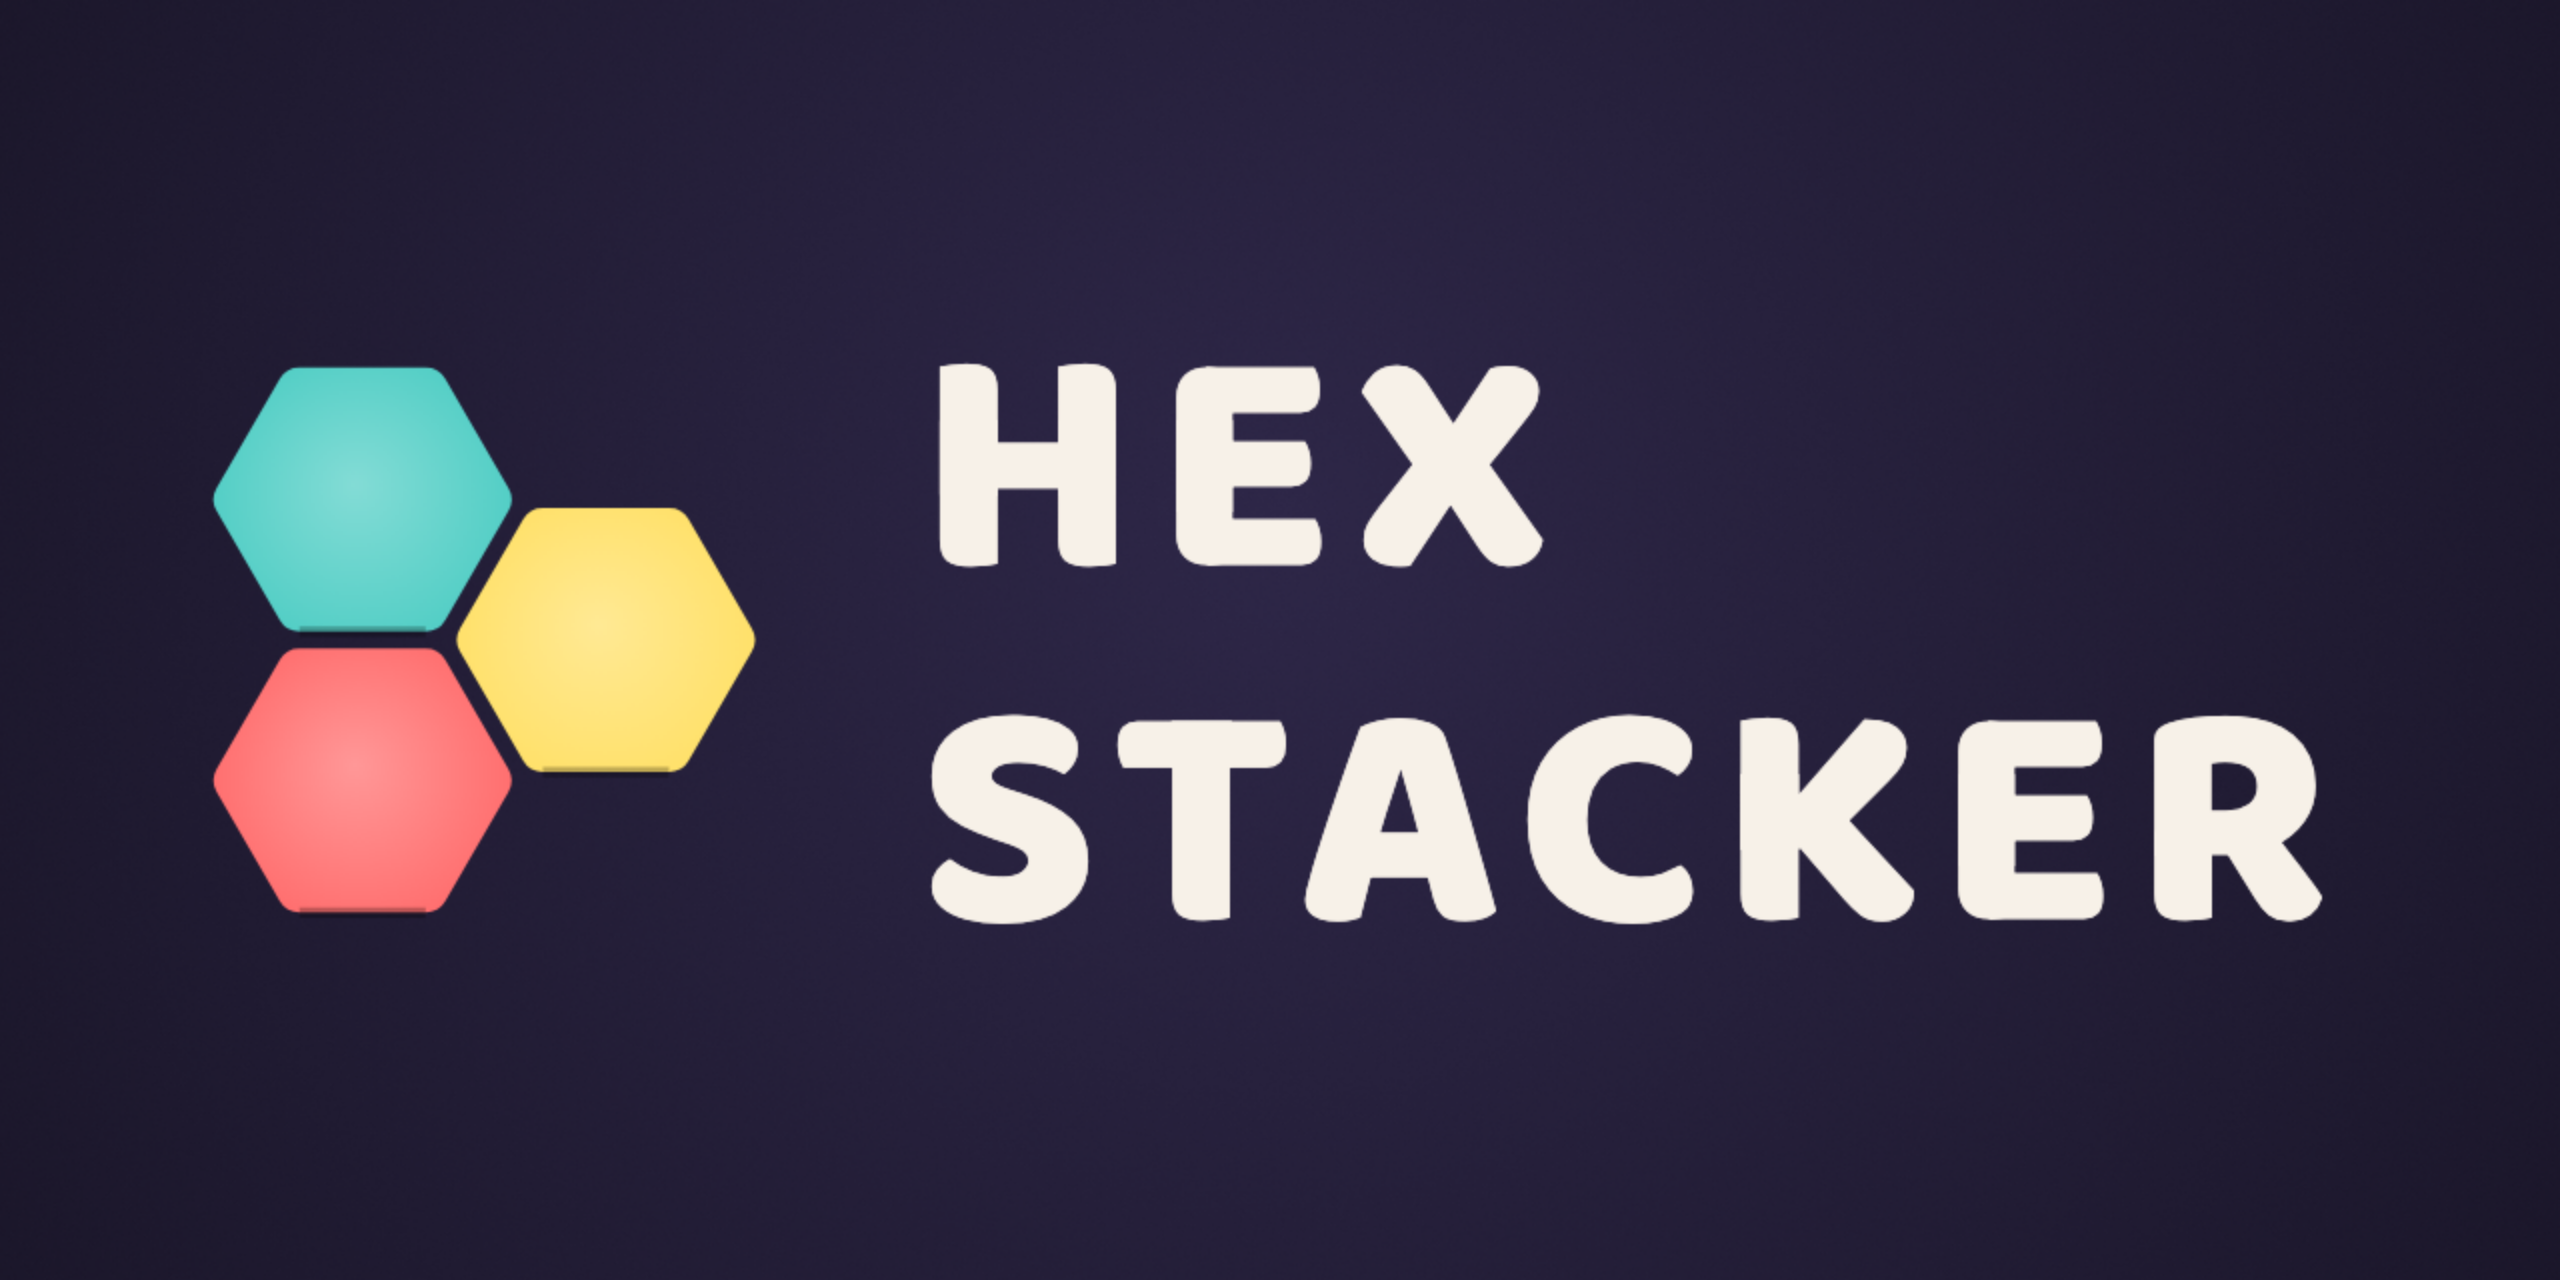
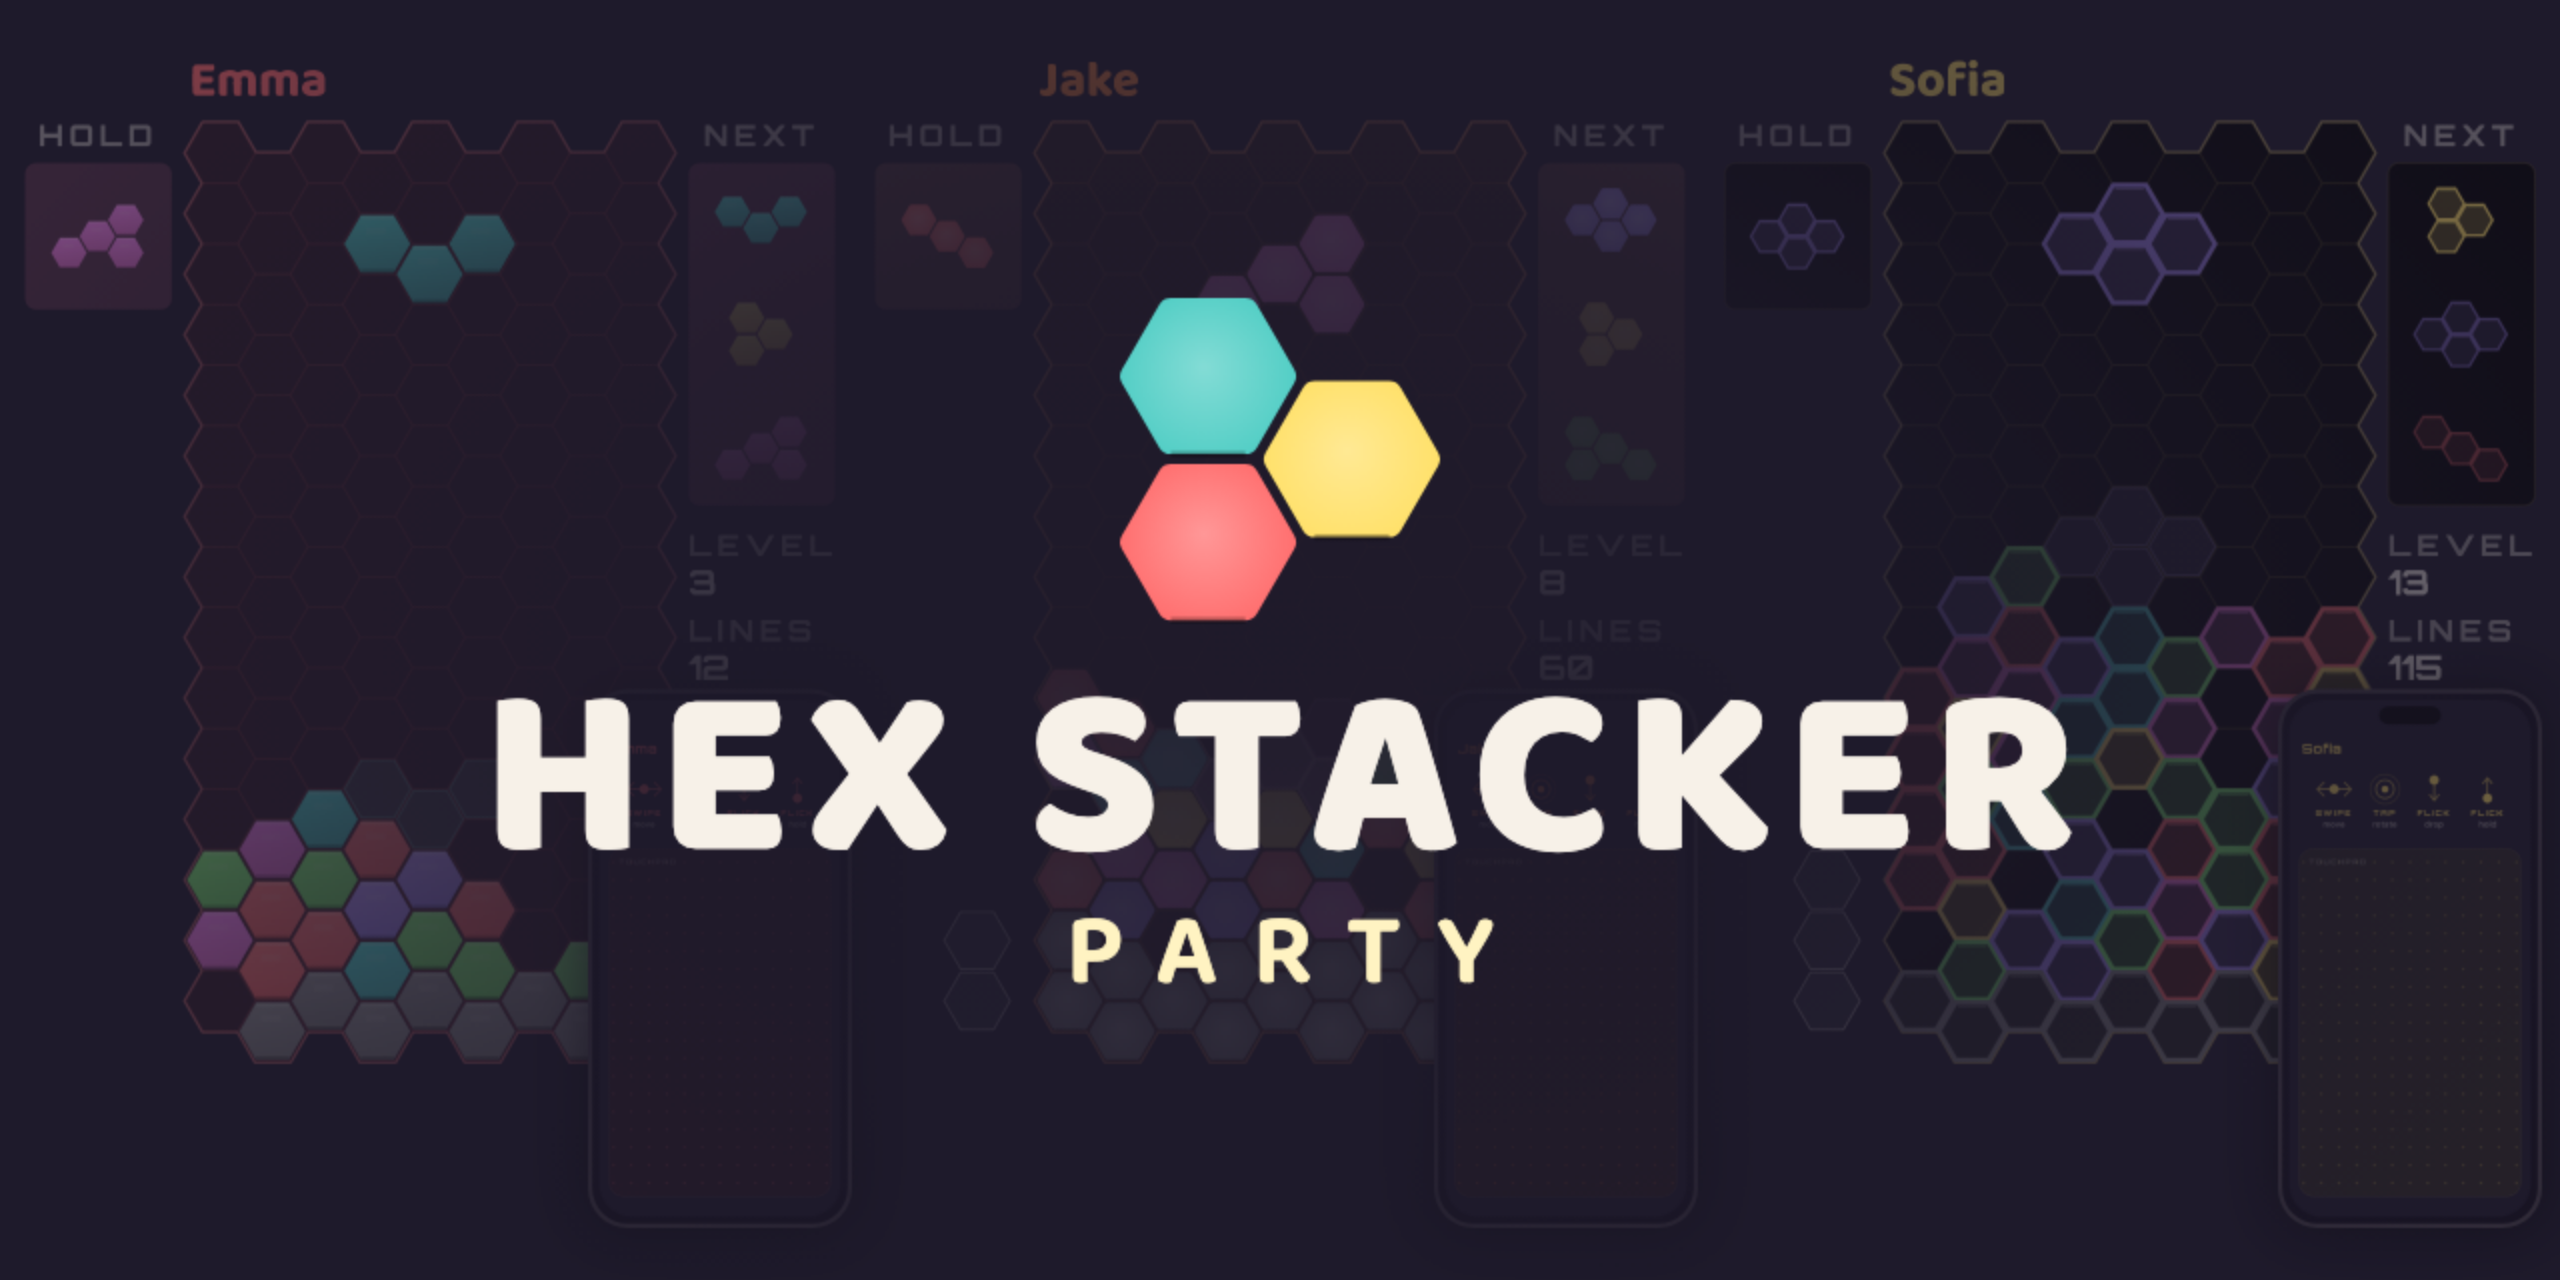
feat(artwork): show gameplay in the link preview (#228)
The link preview was the bare logo and said nothing about the game. It now shares the Play feature graphic's look (gameplay boards behind the stacked lockup with PARTY), rendered from one builder stage so the two can't drift.

diff --git a/artwork/builder.html b/artwork/builder.html
@@ -304,6 +304,7 @@
             <option value="brightTeal">Bright teal</option>
             <option value="brightMagenta">Bright magenta</option>
             <option value="arcadeGrid">Arcade grid (neon)</option>
+            <option value="gameplay">Gameplay backdrop</option>
           </select>
         </div>
       </section>
@@ -762,11 +763,40 @@
     ctx.putImageData(img, x, y);
   }
 
+  // The gameplay banner as a dimmed backdrop. Under file:// the drawn image
+  // taints the canvas, so this style skips the dither (it reads pixels back,
+  // and the photo hides banding anyway) and Export PNG can't save it: render
+  // it with generate-social.js, which screenshots the page instead.
+  const GAMEPLAY_IMG = new Image();
+  GAMEPLAY_IMG.src = 'gameplay-2x1.png';
+
   function paintBackground(ctx, W, H, style) {
     paintBackgroundBase(ctx, W, H, style);
-    if (style !== 'solid') ditherRect(ctx, 0, 0, W, H);
+    if (style !== 'solid' && style !== 'gameplay') ditherRect(ctx, 0, 0, W, H);
   }
   function paintBackgroundBase(ctx, W, H, style) {
+    if (style === 'gameplay') {
+      ctx.fillStyle = '#1E1A2B';
+      ctx.fillRect(0, 0, W, H);
+      const s = Math.max(W / GAMEPLAY_IMG.naturalWidth, H / GAMEPLAY_IMG.naturalHeight);
+      const iw = GAMEPLAY_IMG.naturalWidth * s, ih = GAMEPLAY_IMG.naturalHeight * s;
+      ctx.globalAlpha = 0.55;
+      ctx.drawImage(GAMEPLAY_IMG, (W - iw) / 2, (H - ih) / 2, iw, ih);
+      ctx.globalAlpha = 1;
+      // Elliptical plum veil so the lockup reads over the boards: a unit
+      // radial gradient scaled to 60% × 75% of the canvas.
+      ctx.save();
+      ctx.translate(W / 2, H / 2);
+      ctx.scale(0.6 * W, 0.75 * H);
+      const v = ctx.createRadialGradient(0, 0, 0, 0, 0, 1);
+      v.addColorStop(0, 'rgba(30, 26, 43, 0.92)');
+      v.addColorStop(0.45, 'rgba(30, 26, 43, 0.75)');
+      v.addColorStop(1, 'rgba(30, 26, 43, 0.15)');
+      ctx.fillStyle = v;
+      ctx.fillRect(-1, -1, 2, 2);
+      ctx.restore();
+      return;
+    }
     if (style === 'solid') {
       ctx.fillStyle = '#1E1A2B';
       ctx.fillRect(0, 0, W, H);
@@ -913,8 +943,8 @@
     return ctx.measureText('HEXSTACKER').actualBoundingBoxAscent;
   }
 
-  // Draw one Baloo 2 line. Letter-spacing is applied via ctx.letterSpacing;
-  // for centered lines we subtract half the trailing space so the glyphs are
+  // Draw one Baloo 2 line centered on x. Letter-spacing is applied via
+  // ctx.letterSpacing; we subtract half the trailing space so the glyphs are
   // optically centered (the web uses a matching text-indent). Returns the
   // line's visual (ink) width.
   function drawBalooLine(ctx, text, x, y, size, opts) {
@@ -928,57 +958,21 @@
     const s = lsEm * size;
     ctx.letterSpacing = s + 'px';
     const w = ctx.measureText(text).width;
-    const drawX = opts.align === 'left' ? x : x - (w - s) / 2;
-    ctx.fillText(text, drawX, y);
+    ctx.fillText(text, x - (w - s) / 2, y);
     ctx.restore();
     return w - s;
   }
 
-  // Render the brand lockup. Two arrangements:
-  //   • 'stacked' (cover): triad above HEX STACKER above the PARTY subtitle,
-  //     centered on the canvas.
-  //   • 'row' (social): triad left, a two-line HEX / STACKER cream block right.
-  // params.titleY is the vertical center of the whole lockup block; the
-  // wordmark auto-shrinks so it never bleeds off-canvas.
+  // Render the brand lockup: triad above HEX STACKER above the PARTY
+  // subtitle, centered on the canvas. params.titleY is the vertical center of
+  // the whole lockup block; the wordmark auto-shrinks so it never bleeds
+  // off-canvas.
   function drawBrandLockup(ctx, W, H, params) {
     const CREAM = '#F7F1E8';
     const SUB   = params.subtitleColor || '#FFF3C2';
     const title = (params.title || 'HEX STACKER').toUpperCase();
     const cy    = params.titleY ?? H / 2;
 
-    if ((params.lockup || 'stacked') === 'row') {
-      // Two-line wordmark next to the mark (HEX / STACKER); no subtitle.
-      const words = title.split(/\s+/);
-      const maxW = W * 0.84;
-      let size = params.titleSize || 150;
-      for (let i = 0; i < 80; i++) {
-        ctx.font = `800 ${size}px 'Baloo 2', sans-serif`;
-        ctx.letterSpacing = (0.06 * size) + 'px';
-        const tw = Math.max(...words.map(w => ctx.measureText(w).width));
-        if (2.2 * size + tw <= maxW) break;   // 2.2 = markW(1.7) + gap(0.5)
-        size *= 0.96;
-      }
-      const markW = 1.7 * size;
-      const gap   = 0.5 * size;
-      const cap   = balooCapHeight(ctx, size, 800);
-      const lineGap = 1.1 * size;
-      ctx.font = `800 ${size}px 'Baloo 2', sans-serif`;
-      ctx.letterSpacing = (0.06 * size) + 'px';
-      const textW = Math.max(...words.map(w => ctx.measureText(w).width));
-      const totalW = markW + gap + textW;
-      const x0 = (W - totalW) / 2;
-      drawTriadMark(ctx, x0 + markW / 2, cy, markW);
-      const textX = x0 + markW + gap;
-      const blockH = (words.length - 1) * lineGap + cap;
-      const firstBaseline = cy - blockH / 2 + cap;
-      words.forEach((w, i) => {
-        drawBalooLine(ctx, w, textX, firstBaseline + i * lineGap, size,
-          { weight: 800, color: CREAM, ls: 0.06, align: 'left' });
-      });
-      return;
-    }
-
-    // Stacked: mark, then single-line wordmark, then PARTY subtitle.
     const maxW = W * 0.82;
     let size = params.titleSize || 130;
     for (let i = 0; i < 80; i++) {
@@ -1000,11 +994,11 @@
     drawTriadMark(ctx, W / 2, top + markH / 2, markW, params.markOpticalK);
     const mainBaseline = top + markH + gapMark + mainCap;
     drawBalooLine(ctx, title, W / 2, mainBaseline, size,
-      { weight: 800, color: CREAM, ls: 0.06, align: 'center' });
+      { weight: 800, color: CREAM, ls: 0.06 });
     if (sub) {
       const subBaseline = mainBaseline + gapSub + subCap;
       drawBalooLine(ctx, sub, W / 2, subBaseline, subSize,
-        { weight: 600, color: SUB, ls: 0.35, align: 'center' });
+        { weight: 600, color: SUB, ls: 0.35 });
     }
   }
 
@@ -1022,7 +1016,6 @@
     cover: {
       canvasW: 1024, canvasH: 1024,
       bgStyle: 'radial', palette: 'classic', cellStyle: 'pillow',
-      lockup: 'stacked',
       title: 'HEX STACKER', subtitle: 'PARTY',
       subtitleColor: '#FFF3C2',
       showTitle: true, titleSize: 150, titleY: 512,
@@ -1036,10 +1029,12 @@
     },
     social: {
       canvasW: 1280, canvasH: 640,
-      bgStyle: 'radial', palette: 'classic', cellStyle: 'pillow',
-      lockup: 'row',
-      title: 'HEX STACKER', subtitle: '',
-      showTitle: true, titleSize: 168, titleY: 320,
+      bgStyle: 'gameplay', palette: 'classic', cellStyle: 'pillow',
+      title: 'HEX STACKER', subtitle: 'PARTY',
+      subtitleColor: '#FFF3C2',
+      // No titleY: the lockup centers on whatever ?w=&h= the capture asks for
+      // (the 1024×500 Play feature graphic is this stage too).
+      showTitle: true, titleSize: 120,
       pieces: [],
       selectedPiece: -1,
     },
@@ -1114,7 +1109,7 @@
     container.appendChild(titleField);
 
     container.appendChild(rangeField('titleSize', 'Title size', 60, 180, 2, STATE.titleSize ?? 110));
-    container.appendChild(rangeField('titleY', 'Title y', 40, STATE.canvasH || 1024, 4, STATE.titleY ?? 140));
+    container.appendChild(rangeField('titleY', 'Title y', 40, STATE.canvasH || 1024, 4, STATE.titleY ?? Math.round((STATE.canvasH || 1024) / 2)));
 
     // Global size/trail override — when checked, applies to every piece
     // without overwriting its individual values. Uncheck to restore.
@@ -1673,6 +1668,7 @@
   Promise.all([
     document.fonts.load('800 100px "Baloo 2"'),
     document.fonts.load('600 100px "Baloo 2"'),
+    GAMEPLAY_IMG.decode(),
   ]).then(() => document.fonts.ready).then(() => {
     if (applyHeadless()) {
       render();
@@ -1682,7 +1678,7 @@
       updateSwatchPreview();
       renderAll();
     }
-  });
+  }).catch((e) => { window.__BUILDER_ERROR__ = `boot: ${e}`; });
   </script>
 </body>
 </html>
